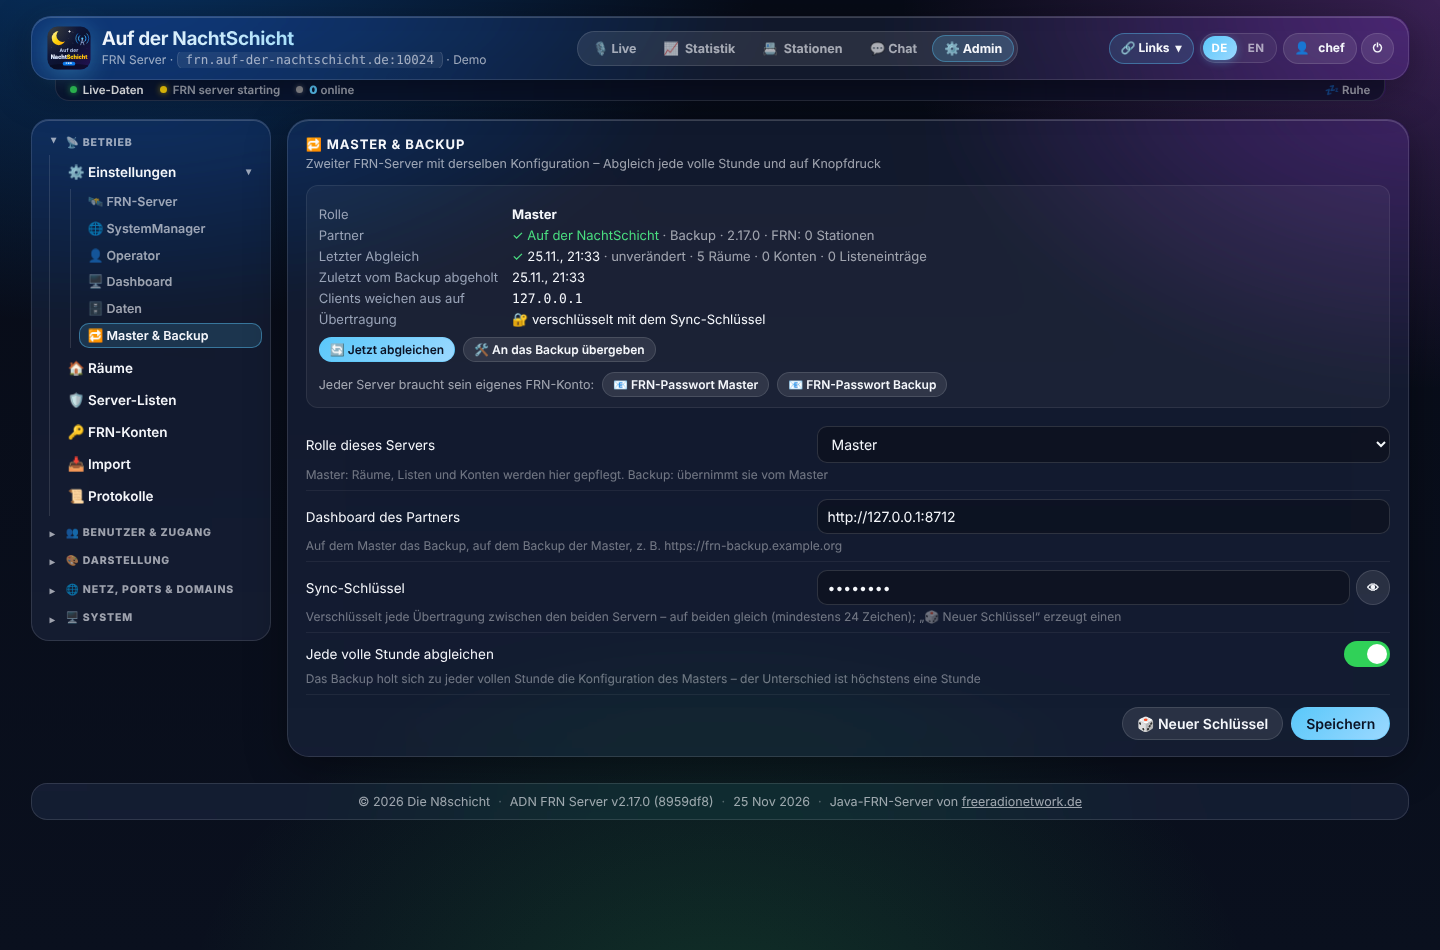
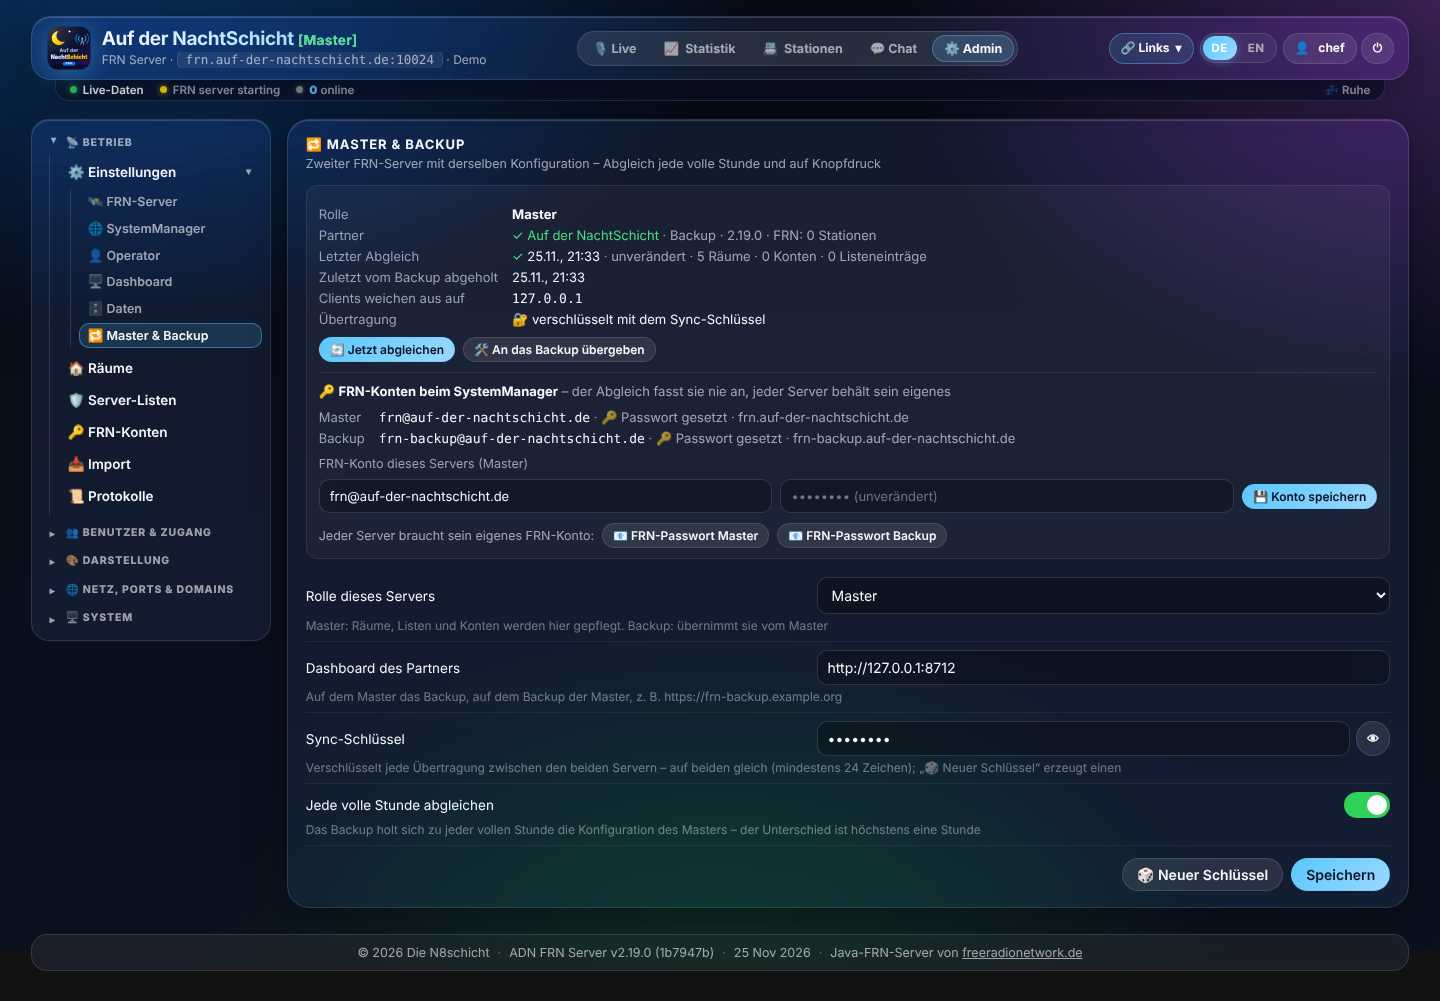
2.20.0: FRN-Konten von Master und Backup im Kasten Master & Backup anzeigen und das eigene dort einstellen
Claude-Session: https://claude.ai/code/session_01J5RG2njQDPpN1LJmv9Xn8d

diff --git a/static/app.js b/static/app.js
@@ -905,10 +905,31 @@ async function loadCluster() {
             ${d.role === 'master' ? (m ? '<button type="button" class="btn small" onclick="clusterMaint(false, this)">↩ Take back from the backup</button>'
                                        : '<button type="button" class="btn small" onclick="clusterMaint(true, this)">🛠 Hand over to the backup</button>') : ''}
         </div>`;
-    box.innerHTML = same + rows + `<div class="actions" style="justify-content:flex-start">
+    const acc = (a, who) => !a ? `<span class="dim">unknown – sync or open the partner once</span>`
+        : a.standalone ? '<span class="dim">stand-alone (no SystemManager)</span>'
+        : a.email ? `<span class="mono">${esc(a.email)}</span> <span class="dim">· <span>${a.password_set ? '🔑 password set' : '⚠ no password'}</span>${a.host ? ' · ' + esc(a.host) : ''}</span>`
+        : '<span class="cl-bad">no FRN account entered</span>';
+    const accounts = d.accounts ? `<div class="cl-acc"><div class="cl-acc-h">🔑 <b>FRN accounts at the SystemManager</b> <span class="dim">– never touched by the sync, every server keeps its own</span></div>
+        <div class="cl-grid"><span>Master</span><div class="${d.same_account ? 'cl-bad' : ''}">${acc(d.accounts.master)}</div>
+        <span>Backup</span><div class="${d.same_account ? 'cl-bad' : ''}">${acc(d.accounts.backup)}</div></div>
+        <div class="cl-own">
+            <div class="cl-own-l">FRN account of this server (${d.role === 'master' ? 'Master' : 'Backup'})</div>
+            <input type="text" inputmode="email" name="sysman.email" data-skip="1" placeholder="E-mail" value="${esc(d.accounts[d.role] ? d.accounts[d.role].email || '' : '')}" autocomplete="off" spellcheck="false">
+            <input type="password" name="sysman.password" data-skip="1" placeholder="${d.accounts[d.role] && d.accounts[d.role].password_set ? '•••••••• (unchanged)' : 'FRN password'}" autocomplete="new-password">
+            <button type="button" class="btn small primary" onclick="clusterOwnAccount(this.closest('.cl-own'))">💾 Save account</button></div></div>` : '';
+    box.innerHTML = same + rows + accounts + `<div class="actions" style="justify-content:flex-start">
         <span class="dim" style="font-size:12.5px">Every server needs its own FRN account:</span>
         <button type="button" class="btn small" onclick="openFrnPassword('master')">📧 FRN password Master</button>
         <button type="button" class="btn small" onclick="openFrnPassword('backup')">📧 FRN password Backup</button></div>`;
+}
+async function clusterOwnAccount(f) {
+    const ch = {}; const e = f.querySelector('[name="sysman.email"]').value.trim(), p = f.querySelector('[name="sysman.password"]').value;
+    ch['sysman.email'] = e; if (p) ch['sysman.password'] = p;
+    try {
+        const r = await api('POST', '/api/admin/settings', { changes: ch });
+        toast(r.changed.length ? 'FRN account saved – restart the FRN server to log in with it' : 'No changes'); setRestart(r.restart_needed);
+    } catch (x) { toast(x.message, true); }
+    loadCluster();
 }
 async function clusterSync(btn) {
     btn.disabled = true; toast('Syncing …');

diff --git a/static/i18n-app.js b/static/i18n-app.js
@@ -253,6 +253,18 @@ N8Kit.i18n.add({
         'Your own links in the header: website, chat group, wiki, donation page … Everyone sees them, also without login.': 'Eigene Links in der Kopfzeile: Webseite, Chatgruppe, Wiki, Spendenseite … Jeder sieht sie, auch ohne Login.',
         'Website': 'Webseite', 'E-mail': 'E-Mail', 'Address': 'Adresse', 'Copy settings from': 'Einstellungen übernehmen von', 'Do not record': 'Nicht aufzeichnen', '(switches to that tab) and': '(wechselt in diesen Tab) und',
         // 2.17.0: Master & Backup
+        "unknown – sync or open the partner once": "unbekannt – einmal abgleichen oder den Partner aufrufen",
+        "stand-alone (no SystemManager)": "eigenständig (ohne SystemManager)",
+        "password set": "Passwort gesetzt",
+        "no password": "kein Passwort",
+        "no FRN account entered": "kein FRN-Konto eingetragen",
+        "FRN accounts at the SystemManager": "FRN-Konten beim SystemManager",
+        "– never touched by the sync, every server keeps its own": "– der Abgleich fasst sie nie an, jeder Server behält sein eigenes",
+        "Save account": "Konto speichern",
+        "FRN account saved – restart the FRN server to log in with it": "FRN-Konto gespeichert – FRN-Server neu starten, damit er sich damit anmeldet",
+        "No changes": "Keine Änderungen",
+        "FRN password": "FRN-Passwort",
+        "E-mail": "E-Mail",
         "FRN server here stopped and locked": "FRN-Server hier gestoppt und gesperrt",
         "it starts by itself as soon as an own FRN account is saved under SystemManager": "er startet von selbst, sobald unter SystemManager ein eigenes FRN-Konto gespeichert ist.",
         "The backup stops and locks its FRN server by itself (at the next sync or status check) – the master stays online": "Das Backup stoppt und sperrt seinen FRN-Server von selbst (beim nächsten Abgleich oder Statusabruf) – der Master bleibt online.",
@@ -338,6 +350,8 @@ N8Kit.i18n.add({
         "Use https:// for the partner – the sync carries the FRN accounts (http only inside the LAN)": "Für den Partner https:// verwenden – der Abgleich überträgt die FRN-Konten (http nur im Heimnetz)",
     },
     rules: [
+        [/^FRN account of this server \((Master|Backup)\)$/, 'FRN-Konto dieses Servers ($1)'],
+        [/^•+ \(unchanged\)$/, '•••••••• (unverändert)'],
         [/^This FRN account is already used by the (master|backup) – every server needs its own FRN account.*$/, (m, w) => `Dieses FRN-Konto verwendet schon der ${w === 'master' ? 'Master' : 'Backup'} – jeder Server braucht sein eigenes FRN-Konto (📧 FRN-Passwort ${w === 'master' ? 'Master' : 'Backup'}).`],
         [/^(\d+) rooms$/, '$1 Räume'], [/^(\d+) accounts$/, '$1 Konten'], [/^(\d+) list entries$/, '$1 Listeneinträge'],
         [/^FRN: (\d+) stations$/, 'FRN: $1 Stationen'], [/^(\d+) stations$/, '$1 Stationen'],

diff --git a/static/app.css b/static/app.css
@@ -499,3 +499,9 @@ header { padding:7px 12px; gap:9px; }
 .title-role { font-size: 0.72em; font-weight: 700; letter-spacing: .02em; opacity: .9; white-space: nowrap; }
 .title-role.role-master { color: #4ade80; } .title-role.role-backup { color: #fbbf24; } .title-role.role-off { color: #9aa4b8; }
 .cl-alarm { border-color: rgba(248,113,113,.6) !important; background: rgba(248,113,113,.10) !important; color: #fecaca !important; margin-bottom: 10px; }
+.cl-acc { margin-top: 10px; padding-top: 10px; border-top: 1px solid rgba(255,255,255,.08); }
+.cl-acc-h { margin-bottom: 6px; }
+.cl-own { display: grid; grid-template-columns: 1fr 1fr auto; gap: 8px; align-items: center; margin-top: 10px; }
+.cl-own-l { grid-column: 1 / -1; color: var(--dim, #9aa4b8); font-size: 12.5px; }
+.cl-own input { width: 100%; min-width: 0; }
+@media (max-width: 700px) { .cl-own { grid-template-columns: 1fr; } }

diff --git a/frnadn/app.py b/frnadn/app.py
@@ -489,12 +489,18 @@ def _account_tag() -> str:
 
 def _me() -> Dict[str, Any]:
     """Was jeder Server bei jeder Anfrage/Antwort über sich mitschickt: Kennung seines FRN-Kontos."""
-    return {"account": _account_tag(), "standalone": bool(ctx.settings.get("frn.standalone")), "role": ctx.settings.get("cluster.role")}
+    s = ctx.settings.all()
+    return {"account": _account_tag(), "standalone": bool(s["frn.standalone"]), "role": s["cluster.role"],
+            # zur Anzeige im Kasten Master & Backup (nur über die verschlüsselte Verbindung, nur für Admins sichtbar)
+            "email": s["sysman.email"] or "", "password_set": bool(s["sysman.password"]), "host": s["frn.address"] or "",
+            "sysman": s["sysman.host"] or ""}
 
 
 def _remember_peer(d: Dict[str, Any]) -> None:
     if isinstance(d, dict) and "account" in d:
         _cluster_set("cluster.peer_account", {"tag": str(d.get("account") or ""), "standalone": bool(d.get("standalone")),
+                                              "email": str(d.get("email") or "")[:200], "password_set": bool(d.get("password_set")),
+                                              "host": str(d.get("host") or "")[:200], "role": str(d.get("role") or ""),
                                               "time": time.time()})
 
 
@@ -549,7 +555,7 @@ async def cluster_hello(request: Request):
     return _cluster_answer(msg, {"ok": True, "role": ctx.settings.get("cluster.role"), "version": __version__,
             "title": ctx.settings.get("dashboard.title"), "frn": _frn_state(), "time": time.time(),
             "maintenance": bool(_cluster_get("cluster.maintenance")), "last": _cluster_get("cluster.last"),
-            "account": _account_tag(), "standalone": ctx.settings.get("frn.standalone")})
+            **_me()})
 
 
 @app.post("/api/cluster/export")
@@ -663,6 +669,15 @@ async def cluster_status(request: Request):
         out["guard"] = _cluster_get("cluster.guard")
         # beide Server mit demselben FRN-Konto: der SystemManager lässt nur einen online (der andere: „wrong credentials“)
         out["same_account"] = account_conflict()
+    # FRN-Konten beider Server beim SystemManager (bleiben beim Abgleich unangetastet)
+    me, peer = _me(), _cluster_get("cluster.peer_account")
+    own = {"email": me["email"], "password_set": me["password_set"], "standalone": me["standalone"], "host": me["host"], "self": True}
+    other = {"email": peer.get("email", ""), "password_set": peer.get("password_set"), "standalone": peer.get("standalone"),
+             "host": peer.get("host", ""), "time": peer.get("time")} if peer else None
+    if s["cluster.role"] == "master":
+        out["accounts"] = {"master": own, "backup": other}
+    elif s["cluster.role"] == "backup":
+        out["accounts"] = {"master": other, "backup": own}
     return out
 
 

diff --git a/tests/test_cluster.py b/tests/test_cluster.py
@@ -206,3 +206,17 @@ def test_master_refuses_backups_account(client, monkeypatch):
     client.get("/api/admin/cluster")
     assert client.post("/api/admin/settings", json={"changes": {"sysman.email": "backup@example.org"}}, headers=H).status_code == 400
     assert client.post("/api/admin/settings", json={"changes": {"sysman.email": "neu@example.org"}}, headers=H).status_code == 200
+
+
+def test_accounts_of_both_shown(client, monkeypatch):
+    A = client.A
+    A.ctx.settings.update({"cluster.role": "master", "cluster.key": KEY, "cluster.peer_url": "https://frn-backup.example.org",
+                           "sysman.email": "master@example.org", "sysman.password": "geheim", "frn.standalone": False}, "t")
+    monkeypatch.setattr(cluster, "call", lambda *a, **k: {"ok": True, "role": "backup", "account": "x", "standalone": False,
+                                                          "email": "backup@example.org", "password_set": False})
+    acc = client.get("/api/admin/cluster").json()["accounts"]
+    assert acc["master"]["email"] == "master@example.org" and acc["master"]["password_set"] and acc["master"]["self"]
+    assert acc["backup"]["email"] == "backup@example.org" and acc["backup"]["password_set"] is False
+    # the sync never touches them
+    from frnadn.cluster import shared_keys
+    assert "sysman.email" not in shared_keys() and "sysman.password" not in shared_keys()

diff --git a/frnadn/__init__.py b/frnadn/__init__.py
@@ -1,2 +1,2 @@
 """frn_adn – dashboard and admin area for the FRN server, design: Auf der NachtSchicht."""
-__version__ = "2.19.0"
+__version__ = "2.20.0"

diff --git a/docs/de/master-backup.md b/docs/de/master-backup.md
@@ -22,13 +22,26 @@ Konfiguration des Masters **zu jeder vollen Stunde** und auf Knopfdruck. Die bei
    **🎲 Neuer Schlüssel** → Schlüssel kopieren → **Speichern**.
 2. **Auf dem Backup:** Rolle **Backup**, *Dashboard des Partners* = `https://frn.auf-der-nachtschicht.de`, denselben
    **Sync-Schlüssel** einfügen, *Jede volle Stunde abgleichen* an → **Speichern** → **🔄 Jetzt abgleichen**.
-3. In beiden Kästen steht jetzt beim *Partner* ein grüner Haken mit Name, Rolle, Version und Stationen. Im Kopfbereich steht
+3. Auf beiden Servern unter **🔑 FRN-Konten** das jeweils **eigene** FRN-Konto eintragen (für das Backup vorher mit
+   **📧 FRN-Passwort Backup** und einer anderen E-Mail anfordern).
+4. In beiden Kästen steht jetzt beim *Partner* ein grüner Haken mit Name, Rolle, Version und Stationen. Im Kopfbereich steht
    hinter dem Titel **[Master]** bzw. **[Backup]** (ohne Rolle: **[Standalone]**).
 
 Beide Server müssen dieselbe Version haben (mindestens 2.17.0). Die Uhren müssen stimmen (± 5 Minuten), sonst lehnt der
 Partner die Anfrage ab.
 
 <p align="center"><img src="../images/admin-cluster-backup.png" alt="Master & Backup auf dem Backup" width="90%"></p>
+
+## 🔑 FRN-Konten von Master und Backup
+
+Im Kasten *Master & Backup* steht unter **🔑 FRN-Konten beim SystemManager**, mit welchem Konto jeder der beiden Server beim
+SystemManager angemeldet ist: E-Mail, ob ein Passwort gesetzt ist, und die Serveradresse. Den Partner zeigt er, sobald einmal
+abgeglichen oder der Status abgerufen wurde. Steht dort zweimal dieselbe E-Mail, wird sie rot.
+
+Darunter trägst du direkt das **FRN-Konto dieses Servers** ein (E-Mail und Passwort, **💾 Konto speichern**). Das ist dasselbe Feld
+wie unter *Einstellungen → SystemManager*. Am besten richtest du das Konto ein, **bevor** du die Rolle setzt und das erste Mal
+abgleichst. Der Abgleich fasst die FRN-Konten **nie** an: Jeder Server behält sein eigenes, auch beim stündlichen Abgleich und
+nach einer Übergabe. Die E-Mail des Partners nimmt das Feld nicht an.
 
 ## 🔒 Schutz: nie zwei Server mit demselben FRN-Konto
 

diff --git a/CHANGELOG.md b/CHANGELOG.md
@@ -2,6 +2,19 @@
 
 Format: neueste Version zuerst. Die Versionsnummer steht in `frnadn/__init__.py`.
 
+## 2.20.0 – 2026-11-25
+
+### 🔑 FRN-Konten von Master und Backup im Kasten Master & Backup
+- Neuer Abschnitt **🔑 FRN-Konten beim SystemManager**: für Master **und** Backup die E-Mail des FRN-Kontos, ob ein Passwort gesetzt
+  ist, und die Serveradresse – das eigene direkt, das des Partners über die verschlüsselte Verbindung (bei jedem Abgleich und
+  Statusabruf aktualisiert). Gleiche E-Mail auf beiden wird rot markiert.
+- **Eigenes FRN-Konto direkt hier einstellen:** E-Mail und Passwort dieses Servers mit **💾 Konto speichern** (dasselbe wie unter
+  *Einstellungen → SystemManager*, mit derselben Prüfung: die E-Mail des Partners wird abgelehnt). So lässt es sich vor dem ersten
+  Abgleich einrichten.
+- Klar gekennzeichnet: **Der Abgleich fasst die FRN-Konten nie an** – `sysman.email` und `sysman.password` gehören zu den Werten,
+  die jeder Server für sich behält (Test sichert das ab).
+- Doku: Einrichtung um „eigenes FRN-Konto auf beiden“ ergänzt, neuer Abschnitt „FRN-Konten von Master und Backup“, Screenshots.
+
 ## 2.19.0 – 2026-11-25
 
 ### 🔒 Schutz: Master und Backup nie wieder mit demselben FRN-Konto
